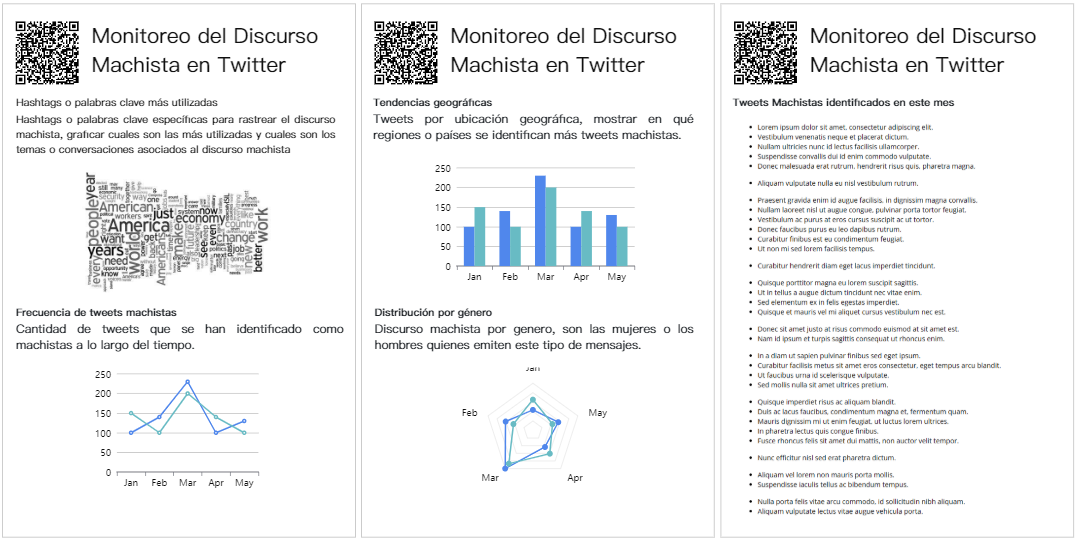
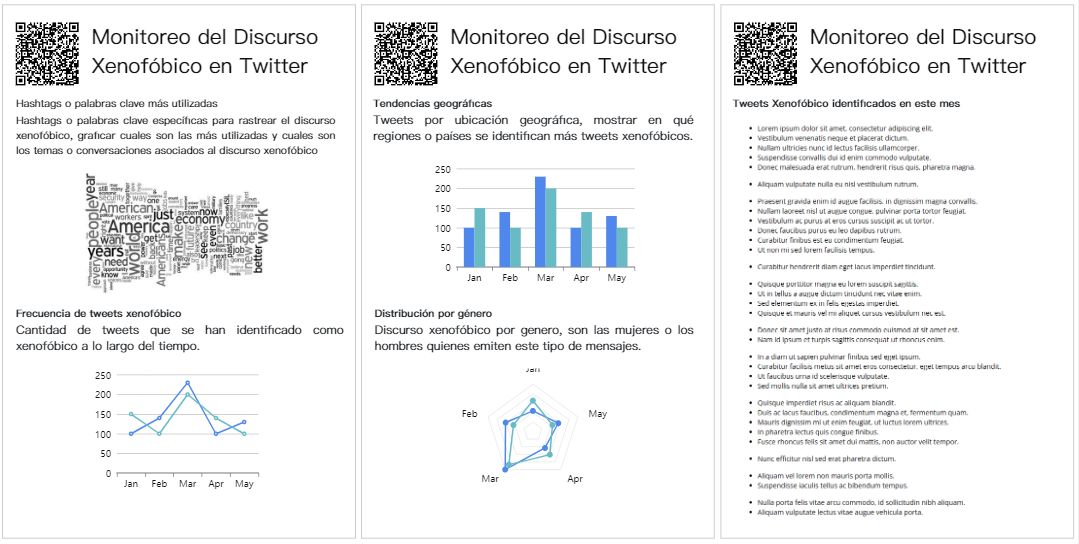
graficas completas

diff --git a/Front/src/app/components/body/body.component.html b/Front/src/app/components/body/body.component.html
@@ -10,7 +10,7 @@
         <div class="card-body">
           <h5 class="card-title">Hashtags o palabras clave más utilizadas</h5>
           <p class="card-text" style="text-align: justify;">
-            La gráfica que se presenta muestra las palabras clave identificadas en tweets machistas, las cuales han sido obtenidas mediante el uso de las librerías <a href="https://spacy.io/"><b>spaCy</b></a> y <a href="https://www.nltk.org/"><b>Natural Language Toolkit</b></a> de Python. El tamaño de las palabras en la gráfica indica su frecuencia de uso en los tweets.<br/>
+            La gráfica que se presenta muestra las palabras clave identificadas en tweets xenofóbicos, las cuales han sido obtenidas mediante el uso de las librerías <a href="https://spacy.io/"><b>spaCy</b></a> y <a href="https://www.nltk.org/"><b>Natural Language Toolkit</b></a> de Python. El tamaño de las palabras en la gráfica indica su frecuencia de uso en los tweets.<br/>
             Para llevar a cabo este análisis, cada tweet fue procesado con la librería <a href="https://spacy.io/"><b>spaCy</b></a> para identificar las palabras clave. Posteriormente, se utilizó la librería <a href="https://www.nltk.org/"><b>Natural Language Toolkit</b></a> para limpiar la lista de palabras clave identificadas, eliminando aquellas que no aportan significado (stopwords).
           </p>
         </div>
@@ -28,8 +28,8 @@
           [legend]="lineChartLegend">
         </canvas>
         <div class="card-body" style="height: 200px;">
-          <h5 class="card-title">Frecuencia de tweets machistas</h5>
-          <p class="card-text" style="text-align: justify;">La gráfica muestra la cantidad de tweets clasificados como machistas por mes.<br/>
+          <h5 class="card-title">Frecuencia de tweets xenofóbicos</h5>
+          <p class="card-text" style="text-align: justify;">La gráfica muestra la cantidad de tweets clasificados como xenofóbicos por mes.<br/>
             Utilizamos una red neuronal creada con <a href="https://keras.io/">Keras</a> y entrenada con un dataset de 2000 tweets previamente clasificados para la tarea.
           </p>
         </div>
@@ -62,7 +62,7 @@
         </canvas>
         <div class="card-body" style="height: 200px;">
           <h5 class="card-title">Distribución por género</h5>
-          <p class="card-text">discurso machista por genero, son las mujeres o los hombres quienes emiten este tipo de mensajes.</p>
+          <p class="card-text">La gráfica representa el conteo de tweets clasificados como xenófobos y que se han agrupado según el género de sus autores.</p>
         </div>
       </div>
     </div>

diff --git a/Front/src/app/components/navbar/navbar.component.html b/Front/src/app/components/navbar/navbar.component.html
@@ -1,7 +1,7 @@
 <nav class="navbar navbar-expand-lg fixed-top bg-dark" style="height: 55px;">
   <div class="navbar-brand">
     <img src="{{api_assets}}/images/logoblanco.png" width="auto" height="20px" alt="" />
-    <span class="m-2 text-light">Monitoreo del Discurso Machista en Twitter</span>
+    <span class="m-2 text-light">Monitoreo del Discurso Xenofóbico en Twitter</span>
   </div>
   <div style="margin-left: auto;">
     <button type="button" class="btn btn-light m-2" id="imprimir_reporte"><i class="fas fa-file-pdf"></i> Imprimir Reporte</button>

diff --git a/Front/src/index.html b/Front/src/index.html
@@ -2,7 +2,7 @@
 <html lang="en">
 <head>
   <meta charset="utf-8">
-  <title>Monitoreo Discurso Machista - Twitter</title>
+  <title>Monitoreo Discurso Xenofóbico - Twitter</title>
   <base href="/">
   <meta name="viewport" content="width=device-width, initial-scale=1">
   <link rel="icon" type="image/x-icon" href="favicon.ico">

diff --git a/Infraestructura/BackendMainWS/backend_main.py b/Infraestructura/BackendMainWS/backend_main.py
@@ -127,7 +127,7 @@ def search_tweets_and_store_on_db(content):
 def select_hasgtags_on_db():
     collection = db['tweets']
     pipeline = [
-        { "$match": { "hashtags": { "$not": { "$size": 0 } }, "clasificado": "Machista" } },
+        { "$match": { "hashtags": { "$not": { "$size": 0 } }, "clasificado": "Xenofabia" } },
         { "$project": { "_id": 0, "hashtags": 1 } },
         { "$unwind": "$hashtags" },
         { "$group": { "_id": "$hashtags", "count": { "$sum": 1 } } },
@@ -141,11 +141,11 @@ def hashtags():
     toReturn = [{'text': h['hashtag'], 'weight': h['count'], 'rotate': i % 2 * 90} for i, h in enumerate(hashtags_on_db)]
     return {'response':toReturn, 'status':200}
 
-def tweets():
+def get_tweets_from_db():
     collection = db['tweets']
     meses = [ "Enero", "Febrero", "Marzo", "Abril", "Mayo", "Junio", "Julio", "Agosto", "Septiembre", "Octubre", "Noviembre", "Diciembre" ]
     pipeline = [
-        { "$match": { "clasificado": "Machista" } },
+        { "$match": { "clasificado": "Xenofabia" } },
         { "$project": { 
             "_id": 0, 
             "user_gender": 1,
@@ -163,8 +163,9 @@ def tweets():
             "year": { "$year": "$created_at" }
         }}
     ]
-    list_tweets = json.loads(json_util.dumps(collection.aggregate(pipeline)))
-    lineChartLabels = meses
+    return json.loads(json_util.dumps(collection.aggregate(pipeline)))
+
+def build_tweets_by_month(list_tweets):
     lineChartDatasets = []
     tweet_counts = defaultdict(lambda: [0] * 12)
     for tweet in list_tweets:
@@ -175,10 +176,12 @@ def tweets():
         data = tweet_counts[year]
         dataset = {'data': data, 'label': str(year), 'fill': True, 'tension': 0.5}
         lineChartDatasets.append(dataset)
+    return lineChartDatasets
+
+def build_tweets_by_country(list_tweets):
+    barChartDatasets = []
     paises = list(set([str(tweet["pais"]).upper() for tweet in list_tweets]))
     years = list(set([tweet["year"] for tweet in list_tweets]))
-    barChartLabels = paises
-    barChartDatasets = []
     for year in years:
         data = []
         for pais in paises:
@@ -186,11 +189,31 @@ def tweets():
             data.append(cuenta_tweets)
         dataset = {'data': data, 'label': str(year)}
         barChartDatasets.append(dataset)
+    return barChartDatasets
+
+def build_tweets_by_gender(list_tweets):
+    radarChartDatasets = []
+    genders = list(set([str(tweet["user_gender"]).upper() for tweet in list_tweets]))
+    paises = list(set([str(tweet["pais"]).upper() for tweet in list_tweets]))
+    for gender in genders:
+        data = []
+        for pais in paises:
+            cuenta_tweets = sum(1 for tweet in list_tweets if str(tweet["pais"]).upper() == str(pais).upper() and tweet["user_gender"] == gender)
+            data.append(cuenta_tweets)
+        dataset = {'data': data, 'label': str(gender)}
+        radarChartDatasets.append(dataset)
+    return radarChartDatasets
+
+def tweets():
+    meses = [ "Enero", "Febrero", "Marzo", "Abril", "Mayo", "Junio", "Julio", "Agosto", "Septiembre", "Octubre", "Noviembre", "Diciembre" ]
+    list_tweets = get_tweets_from_db()
+    lineChartLabels = meses
+    lineChartDatasets = build_tweets_by_month(list_tweets)
+    barChartDatasets = build_tweets_by_country(list_tweets)
+    paises = list(set([str(tweet["pais"]).upper() for tweet in list_tweets]))
+    barChartLabels = paises
     radarChartLabels = paises
-    radarChartDatasets = [
-        # { 'data': [65, 59, 90, 81, 56, 55, 40], 'label': 'Hombres' },
-        # { 'data': [28, 48, 40, 19, 96, 27, 100], 'label': 'Mujeres' }
-    ]
+    radarChartDatasets = build_tweets_by_gender(list_tweets)
     response = { 
                     'tweets': list_tweets,
                     'lineChartLabels': lineChartLabels,

diff --git a/Infraestructura/DataAnalizer/data_analizer.py b/Infraestructura/DataAnalizer/data_analizer.py
@@ -48,7 +48,7 @@ def clasify_tweets():
     collection = db['tweets']
     tweets_to_process = collection.find({'clasificado': 'Pendiente'})
     for tweet in tweets_to_process:
-        clasificacion = random.choice(['Machista', 'Normal'])
+        clasificacion = random.choice(['Xenofabia', 'Normal'])
         collection.update_one( {'_id': tweet['_id']}, {'$set': {'clasificado': clasificacion}} )
 
 search_hashtags_from_tweets()
